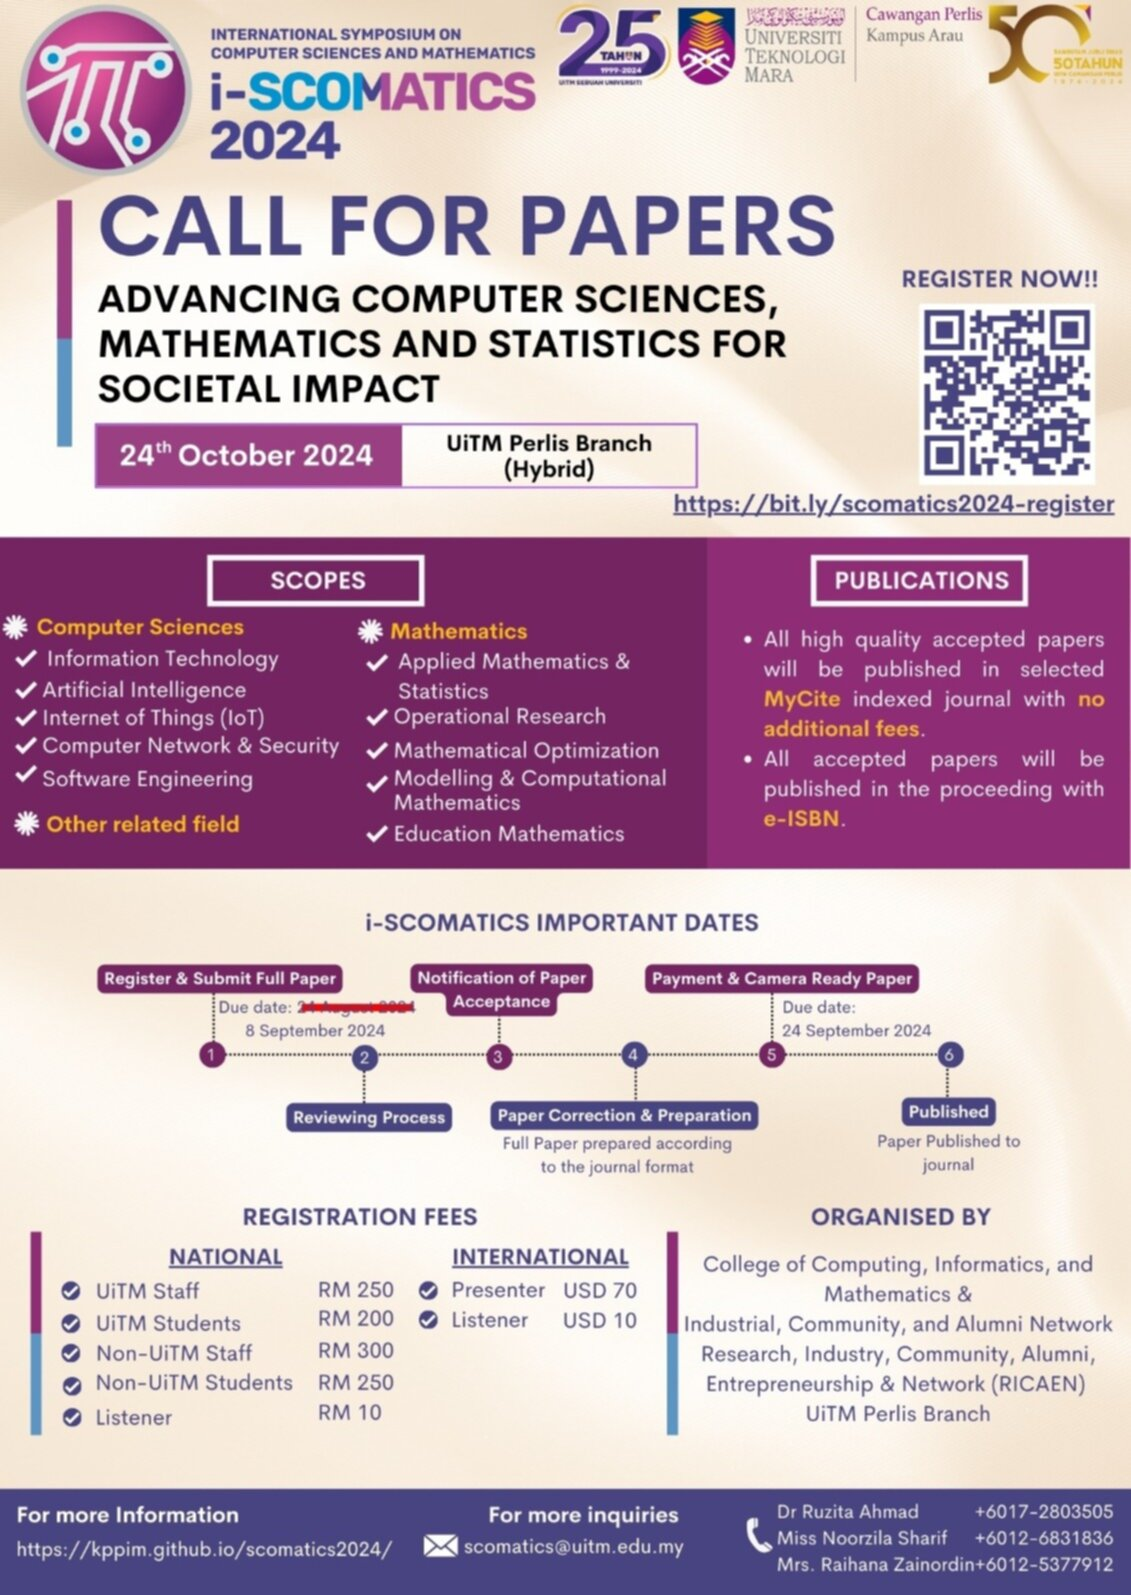
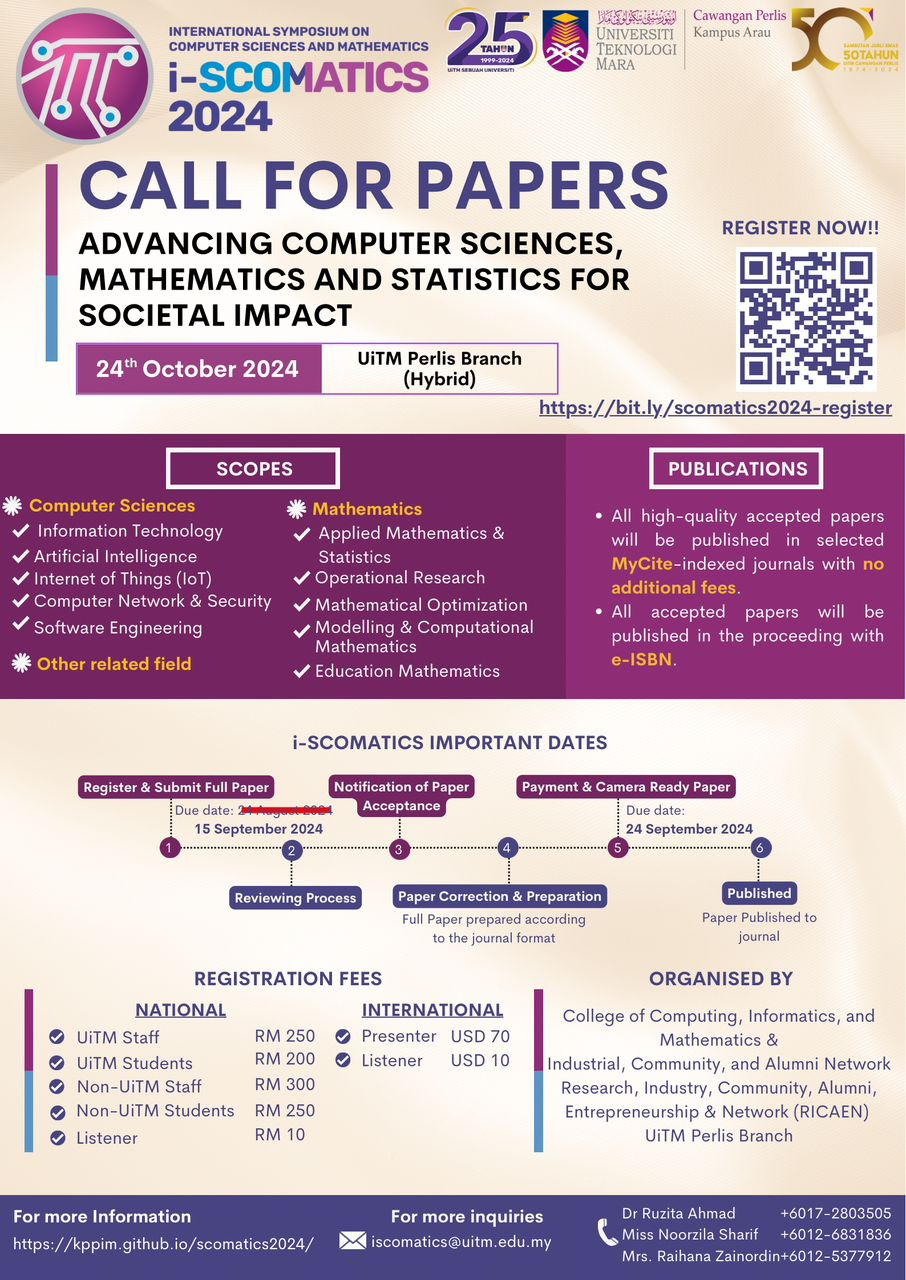
Update new submission date.

diff --git a/index.html b/index.html
@@ -412,7 +412,11 @@
           <tbody>
             <tr>
               <td>Registration and Full Paper Submission</td>
-              <td>8 September 2024</td>
+              <td>
+                <span style="text-decoration:line-through">24 August 2024</span><br>
+                <span style="text-decoration:line-through">8 September 2024</span><br>
+                15 September 2024
+              </td>
             </tr>
             <tr>
               <td>Payment and Camera Ready Paper</td>
